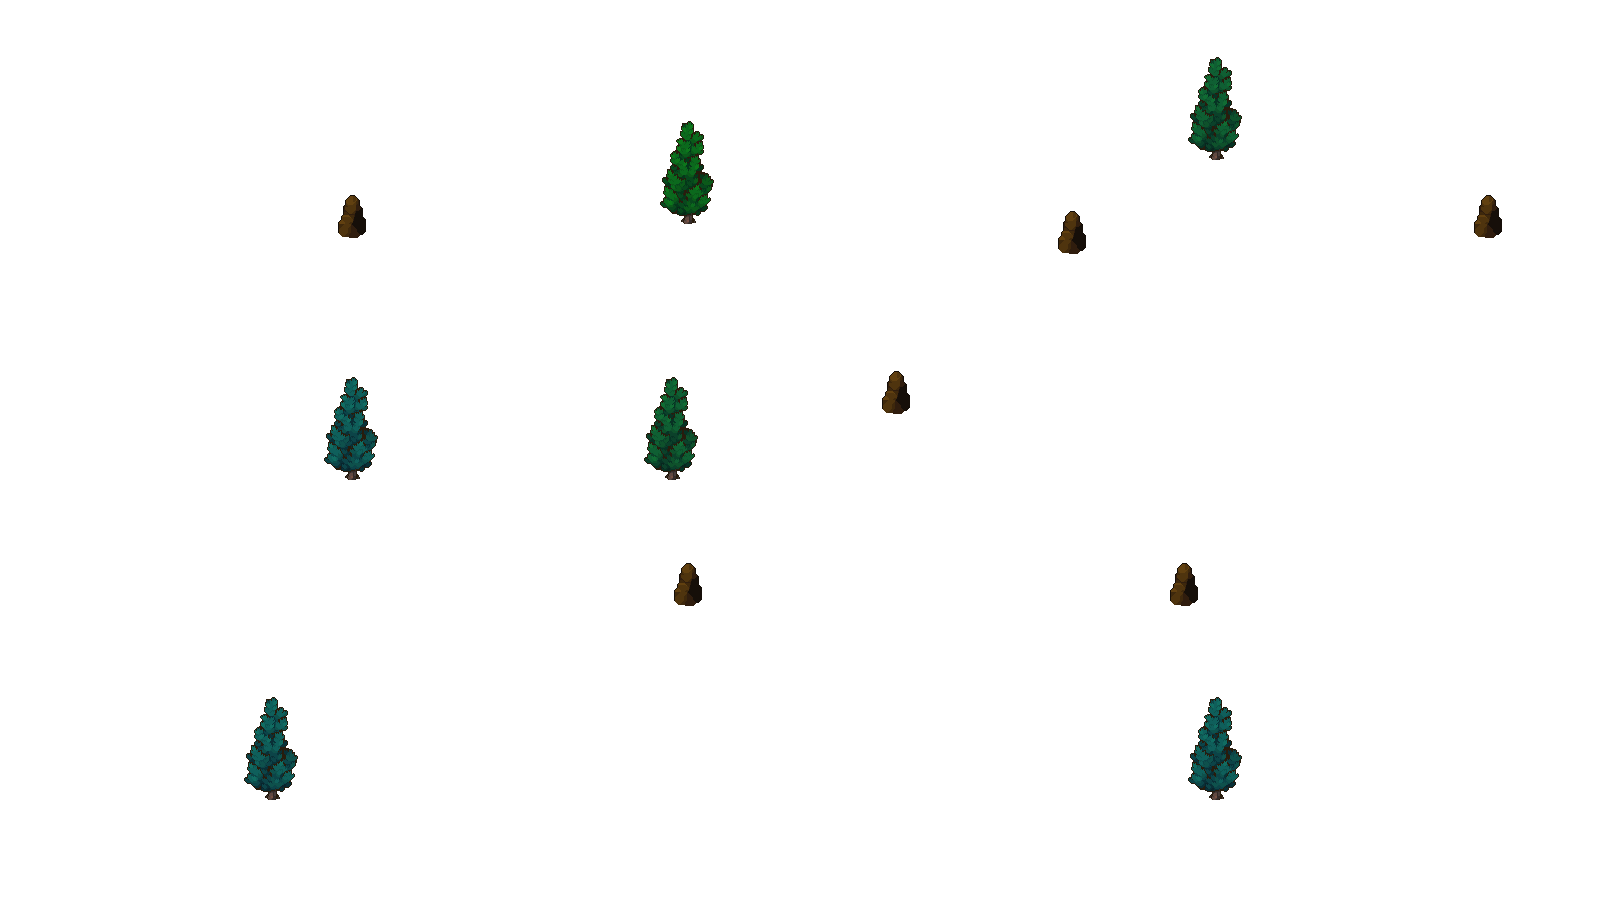
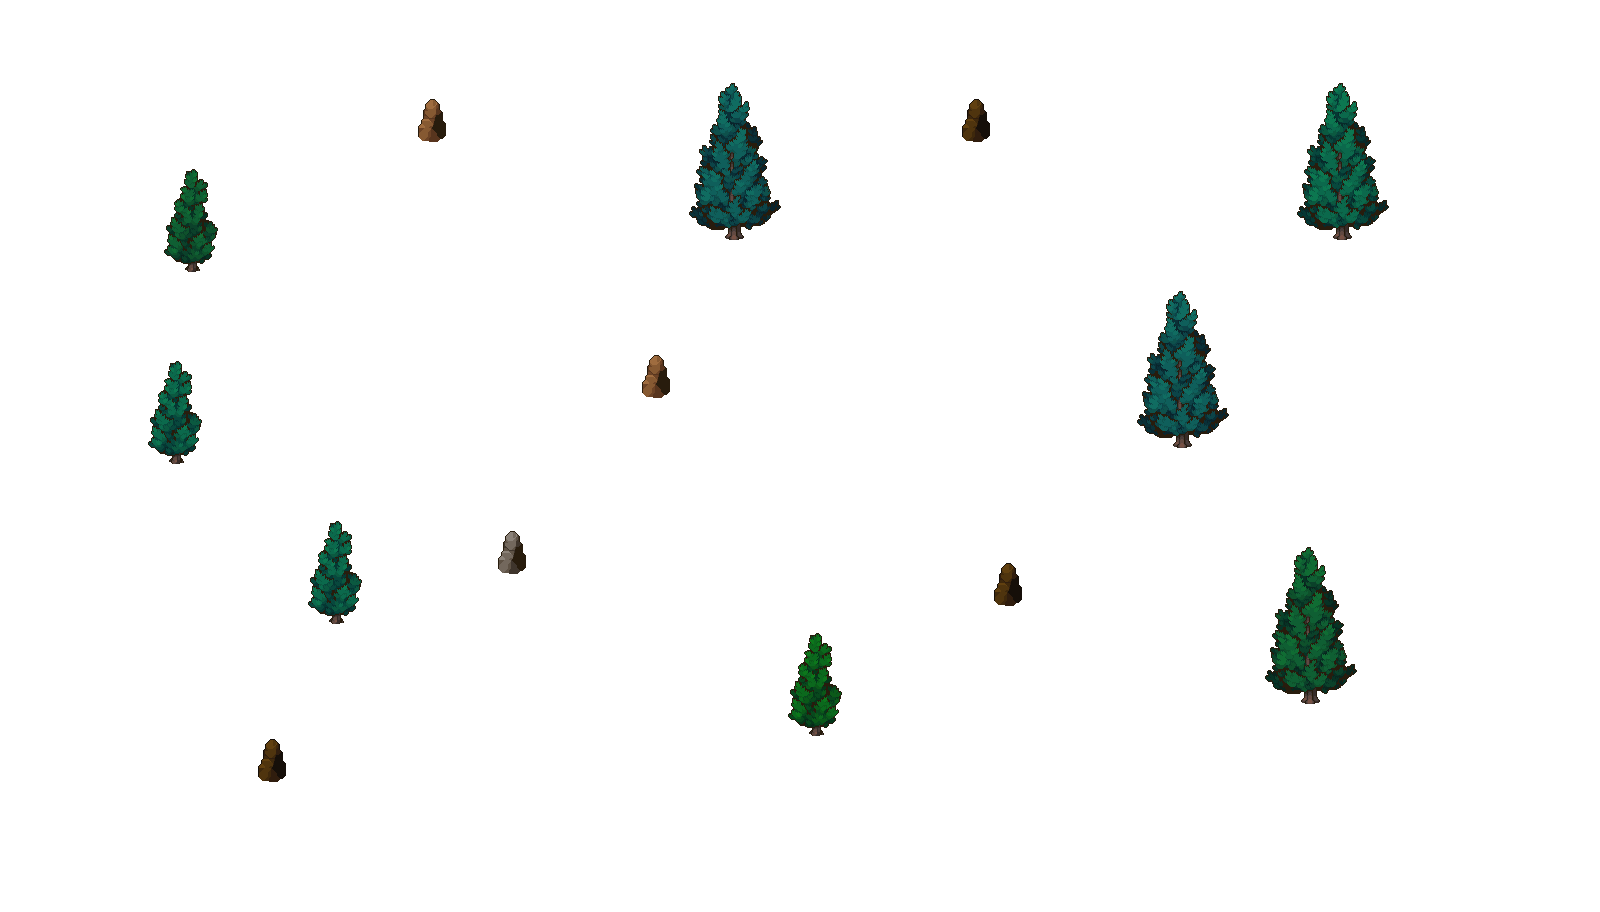
Added Coordinates in MapData
add one missing obstacle
now able to walk behind obstacles for all 3 maps

diff --git a/src/game.c b/src/game.c
@@ -25,11 +25,8 @@ Bullet bullets[MAX_BULLETS];
 char text[100];
 CP_Font font_menu = NULL;
 
+int max_obs;
 Obstacle obstacle[MAX_OBSTACLE];
-float Obs_X[MAX_OBSTACLE] = { 1216.13f, 1072.00f, 351.88f, 688.33f, 1488, 672.06f, 272.13f, 352.00f, 895.82f, 687.95f, 1184.00f, 1215.75f };
-float Obs_Y[MAX_OBSTACLE] = { 144.00f, 248.19f, 464.00f, 208, 232.25f, 464.06f, 784.13f, 231.91f, 408.36f, 600.00f, 600.14f, 784.00f };
-float Obs_W[MAX_OBSTACLE] = { 64.25f, 32.75, 64.25f, 64.67f, 32.5f, 64.375f, 64.75f, 32.36f, 32, 32.09f, 32.36f, 64.5f };
-float Obs_H[MAX_OBSTACLE] = { 32.5f, 16.125f, 32, 32.67f, 16.5f, 32.125f, 32.25f, 15.82f, 16, 16, 16.09f, 32.5f };
 
 //---------------------------------------------------------
 //Darrel
@@ -107,15 +104,11 @@ void Game_Init(void)
 	Norm_X = 0.0f;
 	Norm_Y = 0.0f;
 
-	bg = CP_Image_Load(maps[current_level][random[current_level]].image_path);
-	if ((maps[current_level][random[current_level]].obstacle_path) != NULL)
-	{
-		bg2 = CP_Image_Load((maps[current_level][random[current_level]].obstacle_path));
-	}
-	else
-	{
-		bg2 = NULL;
-	}
+	MapData* current_map = &maps[current_level][random_map[current_level]];
+	max_obs = current_map->size;
+	bg = CP_Image_Load(current_map->image_path);
+	bg2 = CP_Image_Load(current_map->obstacle_path);
+
 	arrow = CP_Image_Load("Assets/Arrow.png");
 	Anim_Init(&knight.idle, "Assets/Knight_Idle.png", 120, 80, 0.12f, 1);
 	Anim_Init(&knight.run, "Assets/Knight_Run.png", 120, 80, 0.12f, 1);
@@ -133,11 +126,11 @@ void Game_Init(void)
 	// Obstacle Values based on one map only for testing
 	if (bg2 != NULL)
 	{
-		for (int i = 0; i < MAX_OBSTACLE; i++) {
-			obstacle[i].x = Obs_X[i];
-			obstacle[i].y = Obs_Y[i];
-			obstacle[i].width = Obs_W[i];
-			obstacle[i].height = Obs_H[i];
+		for (int i = 0; i < max_obs; i++) {
+			obstacle[i].x = *(current_map->arr_x + i);
+			obstacle[i].y = *(current_map->arr_y + i);
+			obstacle[i].width = *(current_map->arr_w + i);
+			obstacle[i].height = *(current_map->arr_h + i);
 		}
 	}
 
@@ -385,7 +378,7 @@ void Game_Update(void)
 					bullets[i].state = 0;
 				}
 			}
-			for (int y = 0; y < MAX_OBSTACLE; y++) {
+			for (int y = 0; y < max_obs; y++) {
 				if (bullets[i].x <= obstacle[y].x + obstacle[y].width / 2.0f &&
 					bullets[i].x >= obstacle[y].x - obstacle[y].width / 2.0f &&
 					bullets[i].y <= obstacle[y].y + obstacle[y].height / 2.0f &&
@@ -413,7 +406,7 @@ void Game_Update(void)
 	}
 	//AABB INTERSECTION !!!!
 	// For Knight
-	for (int i = 0; i < MAX_OBSTACLE; i++) {
+	for (int i = 0; i < max_obs; i++) {
 		if (IsSquareColliding(obstacle[i].x, obstacle[i].y, obstacle[i].width, obstacle[i].height, knight.x, knight.y, knight.width, knight.height, &overlapX, &overlapY)) {
 			if (overlapX < overlapY) {
 				knight.x = (knight.x < obstacle[i].x) ? (knight.x -= overlapX) : (knight.x += overlapX);
@@ -425,7 +418,7 @@ void Game_Update(void)
 	}
 	/*------------------------------------------------------------------------------*/
 	//For dummy
-	for (int i = 0; i < MAX_OBSTACLE; i++) {
+	for (int i = 0; i < max_obs; i++) {
 		if (IsSquareColliding(obstacle[i].x, obstacle[i].y, obstacle[i].width, obstacle[i].height, dummy.x, dummy.y, dummy.width, dummy.height, &overlapX, &overlapY)) {
 			if (overlapX < overlapY) {
 				dummy.x = (dummy.x < obstacle[i].x) ? (dummy.x -= overlapX) : (dummy.x += overlapX);
@@ -502,7 +495,7 @@ void Game_Update(void)
 		CP_Font_DrawText(text, dummy.x, dummy.y - (dummy.height / 2.0f) - 12.0f);
 		CP_Settings_TextSize(30.0f);
 	}
-	for (int i = 0; i < MAX_OBSTACLE; i++) {
+	for (int i = 0; i < max_obs; i++) {
 		CP_Settings_Fill(CP_Color_Create(255, 0, 0, 255));
 		CP_Graphics_DrawRect(obstacle[i].x, obstacle[i].y, obstacle[i].width, obstacle[i].height);
 	}
@@ -826,16 +819,21 @@ void Game_Update(void)
 			CP_Image_DrawSubImageAdvanced(arrow, bullets[i].x, bullets[i].y, 32, 32, 32, 0, 48, 16, 255, bullets[i].angle);
 		}
 	}
+	char buf[32];
+	sprintf_s(buf, sizeof(buf), "Level: %d", current_level);
+	CP_Settings_Fill(CP_Color_Create(255, 255, 255, 255));
+	CP_Font_DrawText(buf, 50, 50);
+	if (CP_Input_KeyTriggered(KEY_N)) {
+		current_level++;                                   // move to next level
+		CP_Engine_SetNextGameState(Game_Init, Game_Update, Game_Exit);
+	}
 	if (CP_Input_KeyDown(KEY_Q)) {
 		CP_Engine_SetNextGameState(Main_Menu_Init, Main_Menu_Update, Main_Menu_Exit);
 	}
 
 	CP_Settings_ImageMode(CP_POSITION_CORNER);
-
-	if (bg2 != NULL)
-	{
-		CP_Image_Draw(bg2, 0, 0, windowLength, windowHeight, 255);
-	}
+	CP_Image_Draw(bg2, 0, 0, windowLength, windowHeight, 255);
+	
 
 	if (GAMEOVER == 1) { // when player dies
 		Paused = 1; // pauses the game so the player has no inputs

diff --git a/src/mainmenu.c b/src/mainmenu.c
@@ -17,25 +17,44 @@
 
 CP_Font globalfont;
 CP_Image bg;
+
+// first map level 1
+float mapA1_x[] = { 976.03125f, 736.1818f, 1343.875f, 1311.8182f, 271.875f, 432.2727f, 173.5f, 335.1818f, 655.9545f, 512.2727f, 1007.96875f, 813.0f, 1183.1818f, 190.2273f };
+float mapA1_y[] = { 135.375f, 224.3636f, 224.3125f, 687.2727f, 775.9375f, 135.5f, 448.3182f, 608.1364f, 392.0f, 567.6818f, 599.3125f, 720.0909f, 432.1818f, 256.0909f };
+float mapA1_w[] = { 32.1875f, 95.6364f, 96.25f, 96.3636f, 32.5f, 32.7273f, 59.1818f, 62.9091f, 32.4545f, 32.9091f, 32.6875f, 58.5455f, 95.8182f, 60.6364f };
+float mapA1_h[] = { 15.0f, 32.3636f, 32.625f, 34.1818f, 15.625f, 15.5455f, 32.8182f, 31.9091f, 16.3636f, 15.5455f, 14.875f, 32.3636f, 32.7273f, 32.3636f };
+// second map level 2
+float mapA2_x[] = { 880.00f, 1071.9375f, 1327.9375f, 1246.3182f, 1232.0455f, 1008.3636f, 864.0625f, 591.9783f, 701.6648f, 352.1818f, 240.0625f, 464.4545f, 287.75f, 607.9091f, 848.00f };
+float mapA2_y[] = { 104.00f, 288.0625f, 223.875f, 432.1364f, 616.1364f, 720.2727f, 439.875f, 343.9565f, 271.9375f, 384.0909f, 232.125f, 136.1818f, 640.25f, 704.2727f, 352.3636f };
+float mapA2_w[] = { 31.75f, 63.875f, 64.125f, 60.4545f, 32.2727f, 96.3636f, 32.125f, 31.9565f, 59.8295f, 64.7273f, 32.375f, 32.3636f, 96.5f, 65.2727f, 64.00f };
+float mapA2_h[] = {15.75f, 32.625f, 32.00f, 32.4545f, 16.0909f, 32.9091f, 15.875f, 16.2609f, 32.625f, 32.1818f, 16.75f, 16.5455f, 31.5f, 32.9091f, 32.00f};
+// second map level 3
+float mapA3_x[] = { 1216.13f, 1072.00f, 351.88f, 688.33f, 1488, 672.06f, 272.13f, 352.00f, 895.82f, 687.95f, 1184.00f, 1215.75f };
+float mapA3_y[] = { 144.00f, 248.19f, 464.00f, 208, 232.25f, 464.06f, 784.13f, 231.91f, 408.36f, 600.00f, 600.14f, 784.00f };
+float mapA3_w[] = { 64.25f, 32.75, 64.25f, 64.67f, 32.5f, 64.375f, 64.75f, 32.36f, 32, 32.09f, 32.36f, 64.5f };
+float mapA3_h[] = { 32.5f, 16.125f, 32, 32.67f, 16.5f, 32.125f, 32.25f, 15.82f, 16, 16, 16.09f, 32.5f };
+
 MapData maps[LEVELS][MAPS_PER_LEVEL] =
 {
 	// Level 1: real maps
-	{ {"./Assets/A.png"}, {"./Assets/B.png"}, {"./Assets/C.png", "./Assets/obs1.png"}},
+	{ {"./Assets/A.png", "./Assets/obs1.png", mapA1_x, mapA1_y, mapA1_w, mapA1_h, 14}, {"./Assets/B.png", "./Assets/obs2.png", mapA2_x, mapA2_y, mapA2_w, mapA2_h, 15},
+	{"./Assets/C.png", "./Assets/obs3.png", mapA3_x, mapA3_y, mapA3_w, mapA3_h, 12}},
 
 	// Level 2: reuse lvl1 images for now as placeholders
-	{ {"./Assets/A.png"}, {"./Assets/B.png"}, {"./Assets/C.png"} },
+	{ {"./Assets/A.png", "./Assets/obs1.png", mapA1_x, mapA1_y, mapA1_w, mapA1_h, 14}, {"./Assets/B.png", "./Assets/obs2.png", mapA2_x, mapA2_y, mapA2_w, mapA2_h, 15},
+	{"./Assets/C.png", "./Assets/obs3.png", mapA3_x, mapA3_y, mapA3_w, mapA3_h, 12}},
 
 	// Level 3: same placeholders
 	{ {"./Assets/A.png"}, {"./Assets/B.png"}, {"./Assets/C.png"} },
 };
-int random[LEVELS];
+int random_map[LEVELS];
 int current_level = 0;
 
 // randomize map for each level
 void randomize(void)
 {
 	for (int i = 0; i < LEVELS; i++)
-		random[i] = rand() % MAPS_PER_LEVEL;
+		random_map[i] = rand() % MAPS_PER_LEVEL;
 }
 
 void Main_Menu_Init(void)

diff --git a/src/game.h b/src/game.h
@@ -13,7 +13,7 @@
 
 #define LEVELS 3
 #define MAPS_PER_LEVEL 3
-#define MAX_OBSTACLE 12
+#define MAX_OBSTACLE 15
 #define MAX_BULLETS 5
 #define MAX_BULLET_DISTANCE 280.0f
 
@@ -27,7 +27,11 @@ typedef struct MapData
 {
 	const char* image_path;
 	const char* obstacle_path;
-
+	float* arr_x;
+	float* arr_y;
+	float* arr_w;
+	float* arr_h;
+	int size;
 } MapData;
 
 typedef struct {
@@ -83,6 +87,6 @@ typedef struct {
 } KillCount;
 //---------------------------------------------------------
 
-extern int random[LEVELS];
+extern int random_map[LEVELS];
 extern int current_level;
 extern MapData maps[LEVELS][MAPS_PER_LEVEL];
